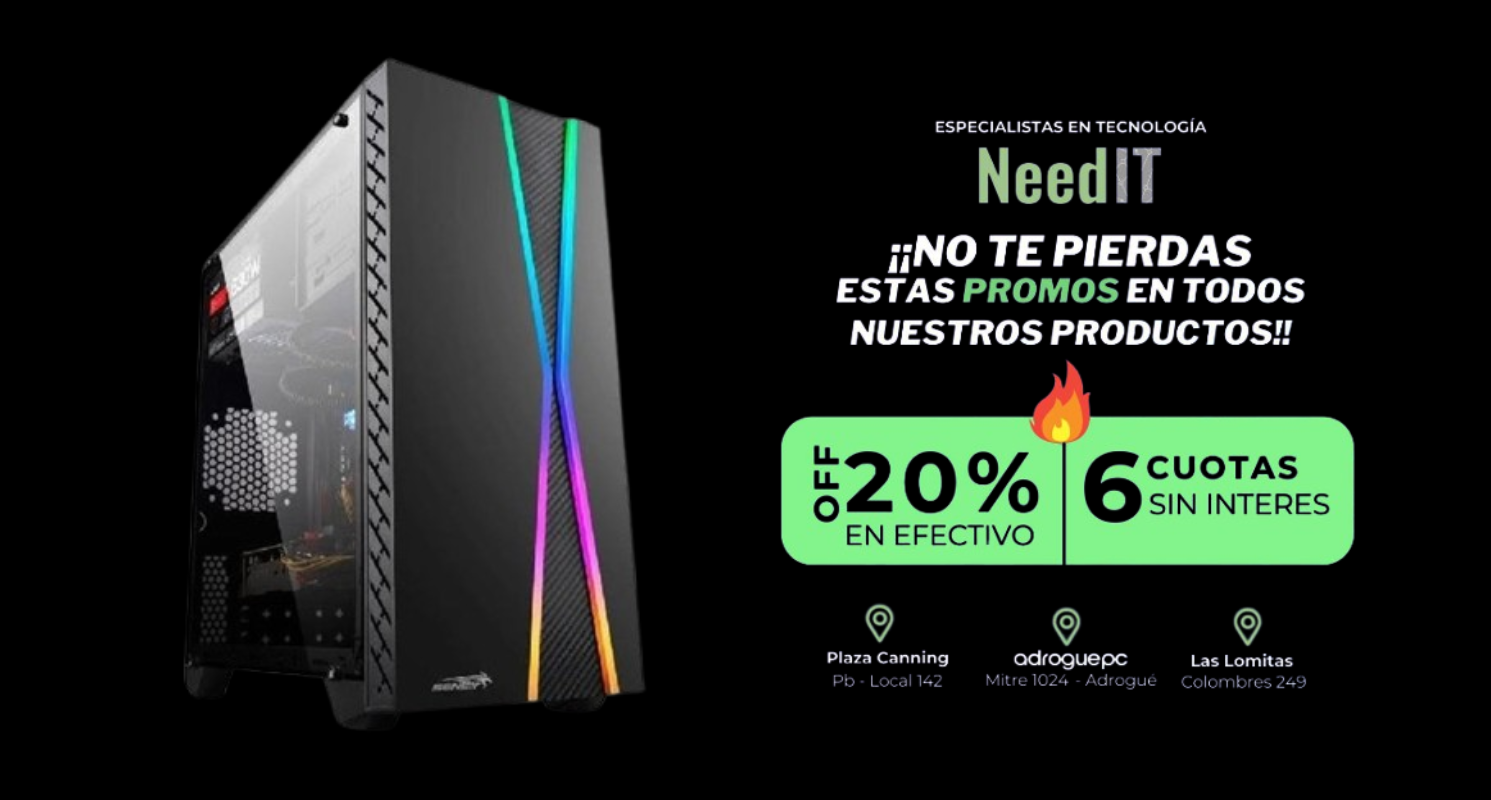
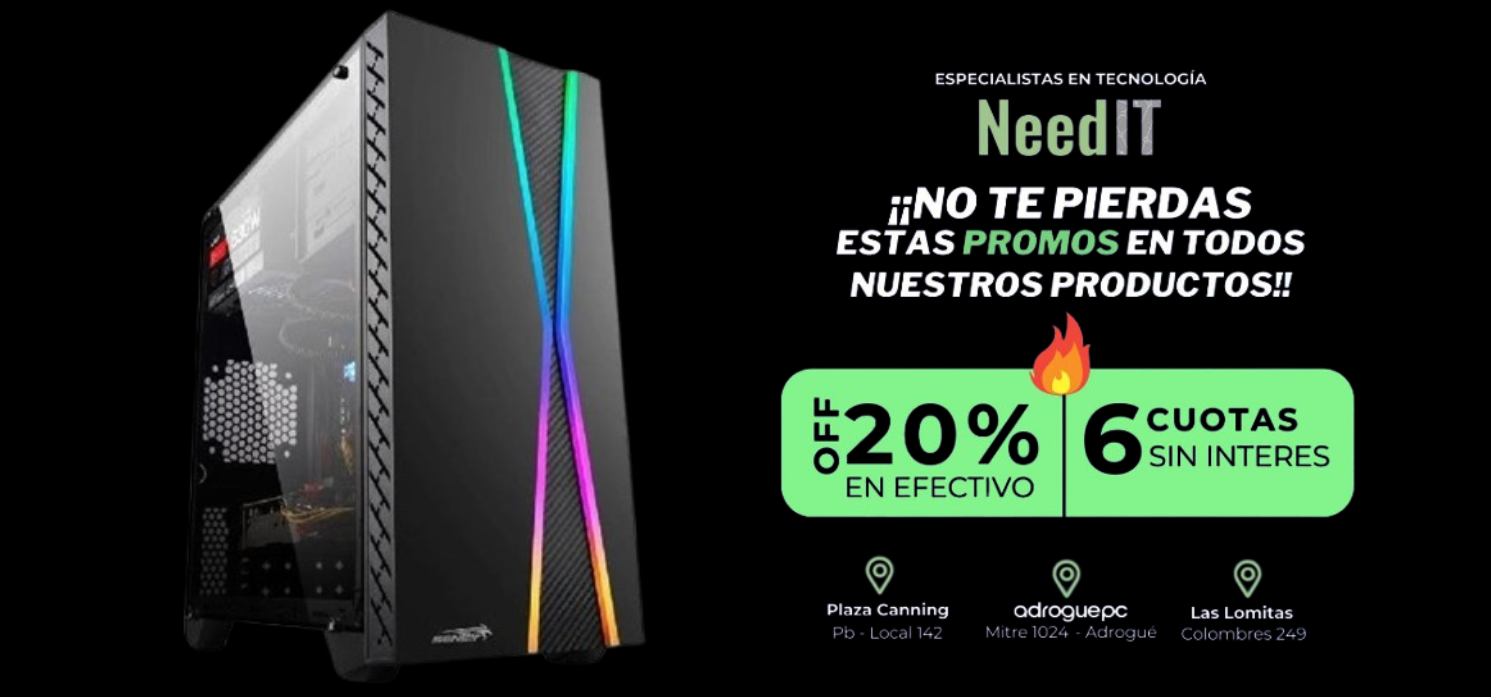
cambios de imagen

diff --git a/style.css b/style.css
@@ -1,0 +1,224 @@
+body {
+    font-family: Arial, sans-serif;
+    margin: 0;
+    padding: 0;
+    background-color: #050542;
+    h2 { color: #ffffff; }
+    p { color: #ffffff; }
+}
+
+.Container{
+    width: 100%;
+    margin:0 auto;
+    max-width: 1340px;
+    min-width: 950px;
+    overflow: hidden;
+}
+
+/* Contenedor para la imagen y el botón */
+.image-container {
+    position: relative;
+    display: inline-block;
+    width: 100%;
+    max-width: 1340px;
+    height: 100vh; /* Asegura que ocupe toda la altura de la ventana */
+    background-size: cover; /* Escala la imagen para cubrir el contenedor */
+    background-position: center; /* Centra la imagen */
+}
+/* Imagen principal */
+.image-container img {
+    width: 100%;
+    height: auto;
+    max-height: 100vh;
+    object-fit: cover;
+}
+
+/* Botón sobre la imagen */
+.image-container button {
+    position: absolute;
+    top: 69%;
+    left: 47.5%;
+    transform: translate(-50%, -50%);
+    padding: 10px 30px;
+    font-size: 16px;
+    background-color: #32bb52;
+    color: white;
+    border: none;
+    border-radius: 5px;
+    cursor: pointer;
+    -webkit-border-radius: 5px;
+    -moz-border-radius: 5px;
+    -ms-border-radius: 5px;
+    -o-border-radius: 5px;
+}
+.image-container button:hover {
+    background-color:#28a344 ;
+}
+
+/* Carrusel de imágenes */
+.carousel-container {
+    position: absolute;
+    top: 5%;
+    left: 47.4%;
+    transform: translateX(-50%);
+    width: 100%;
+    max-width: 33.9%;
+    height: auto;
+    overflow: hidden;
+    border-radius: 0px;
+    box-shadow: 0 4px 8px rgba(0, 0, 0, 0.3);
+    -webkit-border-radius: 0px;
+    -moz-border-radius: 0px;
+    -ms-border-radius: 0px;
+    -o-border-radius: 0px;
+}
+
+.carousel-container img {
+    width: 100%;
+    height: auto;
+    display: none;
+}
+
+.carousel-container img.active {
+    display: block;
+}
+
+/* Estilo del footer */
+footer {
+    background-color: #333;
+    color: white;
+    text-align: center;
+    padding: 10px 0;
+    width: 100%;
+    bottom: 0;
+    position: relative;
+    box-sizing: border-box;
+}
+
+/* Ocultar la sección por defecto */
+.hidden {
+    display: none;
+}
+
+#pregunta-uso {
+    text-align: center;
+    margin: 20px;
+}
+
+.opcion-uso {
+    padding: 10px 20px;
+    margin: 10px;
+    background-color: #32bb52;
+    color: white;
+    border: none;
+    border-radius: 5px;
+    cursor: pointer;
+    font-size: 16px;
+}
+
+.opcion-uso:hover {
+    background-color: #28a344;
+}
+
+/* Sección para cada opción */
+.section-option {
+    text-align: center;
+    margin: 20px;
+}
+
+#volver-btn {
+    padding: 10px 20px;
+    margin-top: 20px;
+    background-color: #2657c2;
+    color: white;
+    border: none;
+    border-radius: 5px;
+    cursor: pointer;
+    -webkit-border-radius: 5px;
+    -moz-border-radius: 5px;
+    -ms-border-radius: 5px;
+    -o-border-radius: 5px;
+}
+
+#volver-btn:hover {
+    background-color: #1442a3;
+}
+#volver-carrusel-btn {
+    padding: 10px 20px;
+    margin-top: 20px;
+    background-color: #2657c2;
+    color: white;
+    border: none;
+    border-radius: 5px;
+    cursor: pointer;
+    -webkit-border-radius: 5px;
+    -moz-border-radius: 5px;
+    -ms-border-radius: 5px;
+    -o-border-radius: 5px;
+}
+
+#volver-carrusel-btn:hover{
+    background-color: #1442a3;
+}
+
+.estilosPreguntas {
+    h2 { color: #ffffff; }
+    p { color: #ffffff; }
+}
+
+.item-container {
+    display: flex;
+    flex-wrap: wrap;
+    justify-content: center;
+    gap: 20px;
+}
+
+.item {
+    text-align: center;
+    border: 2px solid #8b8b8b;
+    border-radius: 5px;
+    padding: 10px;
+    cursor: pointer;
+    transition: transform 0.3s;
+}
+
+.item img {
+    width: 150px;
+    height: auto;
+    border-radius: 5px;
+}
+
+.item .nombre {
+    color: white;
+    font-weight: bold;
+}
+
+.item .precio {
+    color: #007bff;
+    font-weight: bold;
+}
+
+.item.selected {
+    border-color: #20c21a;
+    transform: scale(1.05);
+}
+
+#siguiente-btn {
+    padding: 10px 20px;
+    margin-top: 20px;
+    background-color:#2657c2;
+    color: white;
+    border: none;
+    border-radius: 5px;
+    cursor: pointer;
+    -webkit-border-radius: 5px;
+    -moz-border-radius: 5px;
+    -ms-border-radius: 5px;
+    -o-border-radius: 5px;
+}
+
+#siguiente-btn:hover {
+    background-color: #1442a3;
+}
+
+

diff --git a/index.html b/index.html
@@ -2,13 +2,14 @@
 <html lang="es">
 <head>
     <meta charset="UTF-8">
-    <meta name="viewport" content="width=device-width, initial-scale=1.0">
+    <meta name="viewport" content="width=device-width, user-scalable=no, initial-scale=1.0, maximum-scale=1.0, minimum-scale=1.0">
     <meta http-equiv="X-UA-Compatible" content="IE=edge">
     <link rel="stylesheet" href="style.css">
     <title>Arma tu PC</title>
 </head>
 <body>
-
+        <div id="Container"> 
+            
 <!-- Contenedor inicial con carrusel -->
 <div id="inicio" class="image-container" style="background-image: url('gabinet2.jpeg');">
     <!-- Botón sobre la imagen -->
@@ -119,5 +120,6 @@
     </footer>
 
     <script src="java.js"></script>
+</div>
 </body>
 </html>
